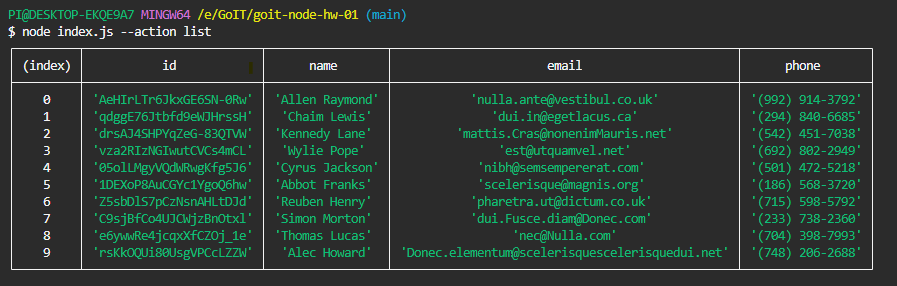
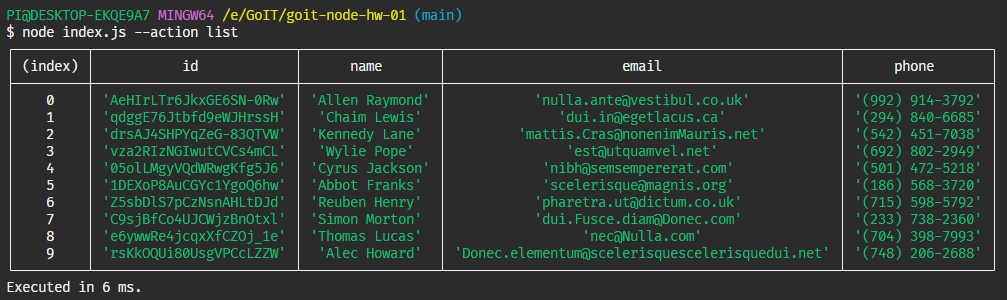
added execution time

Changed region(s): [[0.0, 0.028, 0.9989, 0.979]]

diff --git a/contacts.js b/contacts.js
@@ -4,7 +4,7 @@ const nanoid = require("nanoid");
 
 const contactsPath = path.join(__dirname, "db", "contacts.json");
 
-async function listContacts() {
+async function readAndListContacts() {
   await fs
     .readFile(contactsPath, "utf-8")
     .then((data) => JSON.parse(data))
@@ -12,7 +12,15 @@ async function listContacts() {
     .catch((err) => console.log(err.message));
 }
 
+async function listContacts() {
+  const startTime = new Date().getTime();
+  await readAndListContacts();
+  const endTime = new Date().getTime();
+  console.log(`Executed in ${endTime - startTime} ms.`);
+}
+
 async function getContactById(contactId) {
+  const startTime = new Date().getTime();
   await fs
     .readFile(contactsPath, "utf-8")
     .then((data) => JSON.parse(data))
@@ -20,14 +28,19 @@ async function getContactById(contactId) {
     .then((contact) => {
       if (!contact) {
         console.log(`There is no contact with id: ${contactId}`);
+        const endTime = new Date().getTime();
+        console.log(`Executed in ${endTime - startTime} ms.`);
         return;
       }
       console.table(contact);
     })
     .catch((err) => console.log(err.message));
+  const endTime = new Date().getTime();
+  console.log(`Executed in ${endTime - startTime} ms.`);
 }
 
 async function removeContact(contactId) {
+  const startTime = new Date().getTime();
   const contacts = await fs
     .readFile(contactsPath, "utf-8")
     .then((data) => JSON.parse(data))
@@ -37,16 +50,23 @@ async function removeContact(contactId) {
 
   if (contacts.length === newContacts.length) {
     console.log(`There is no contact with id: ${contactId}`);
+    const endTime = new Date().getTime();
+    console.log(`Executed in ${endTime - startTime} ms.`);
     return;
   }
 
   await fs
     .writeFile(contactsPath, JSON.stringify(newContacts))
     .catch((err) => console.log(err.message));
-  listContacts();
+
+  await readAndListContacts();
+
+  const endTime = new Date().getTime();
+  console.log(`Executed in ${endTime - startTime} ms.`);
 }
 
 async function addContact(name, email, phone) {
+  const startTime = new Date().getTime();
   const newContact = { id: nanoid.nanoid(), name, email, phone };
   const contacts = await fs
     .readFile(contactsPath, "utf-8")
@@ -61,6 +81,8 @@ async function addContact(name, email, phone) {
     )
   ) {
     console.log(`Contact with name: ${name} is already in database.`);
+    const endTime = new Date().getTime();
+    console.log(`Executed in ${endTime - startTime} ms.`);
     return;
   }
 
@@ -72,6 +94,8 @@ async function addContact(name, email, phone) {
     )
   ) {
     console.log(`Contact with email: ${email} is already in database.`);
+    const endTime = new Date().getTime();
+    console.log(`Executed in ${endTime - startTime} ms.`);
     return;
   }
 
@@ -83,13 +107,19 @@ async function addContact(name, email, phone) {
     )
   ) {
     console.log(`Contact with phone: ${phone} is already in database.`);
+    const endTime = new Date().getTime();
+    console.log(`Executed in ${endTime - startTime} ms.`);
     return;
   }
 
   await fs
     .writeFile(contactsPath, JSON.stringify([...contacts, newContact]))
     .catch((err) => console.log(err.message));
-  listContacts();
+
+  await readAndListContacts();
+
+  const endTime = new Date().getTime();
+  console.log(`Executed in ${endTime - startTime} ms.`);
 }
 
 module.exports = { listContacts, getContactById, removeContact, addContact };
